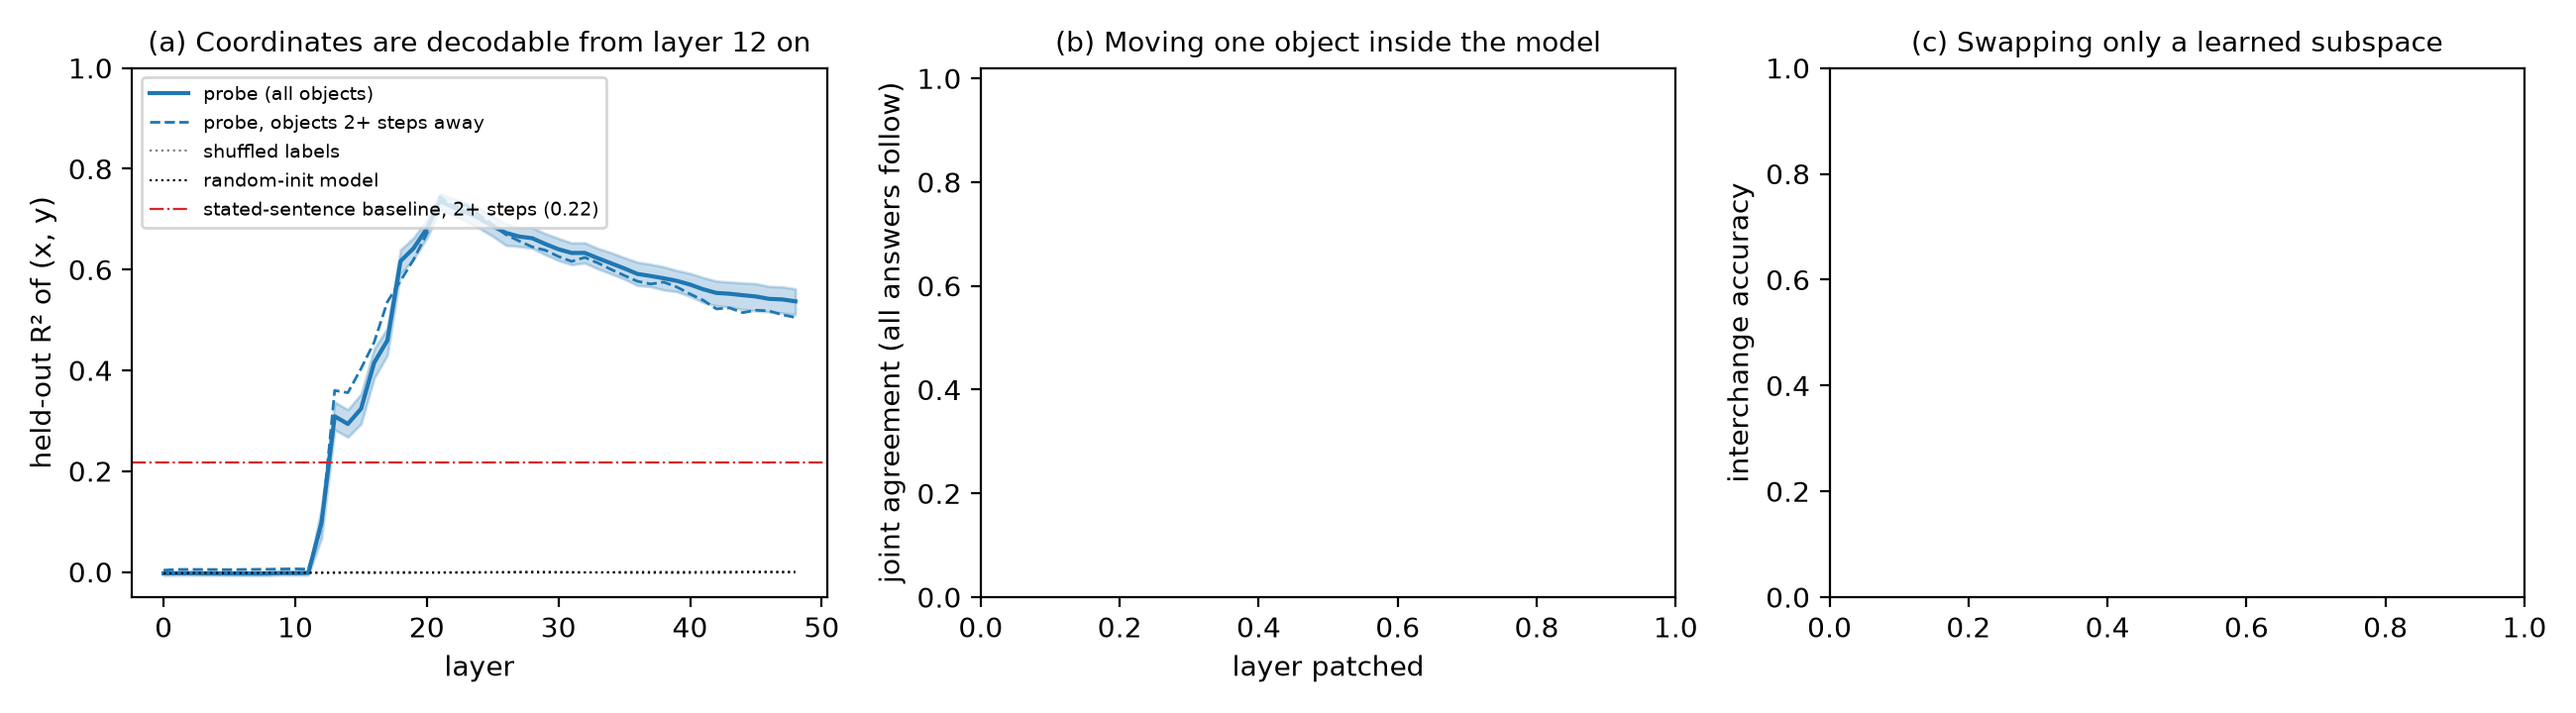
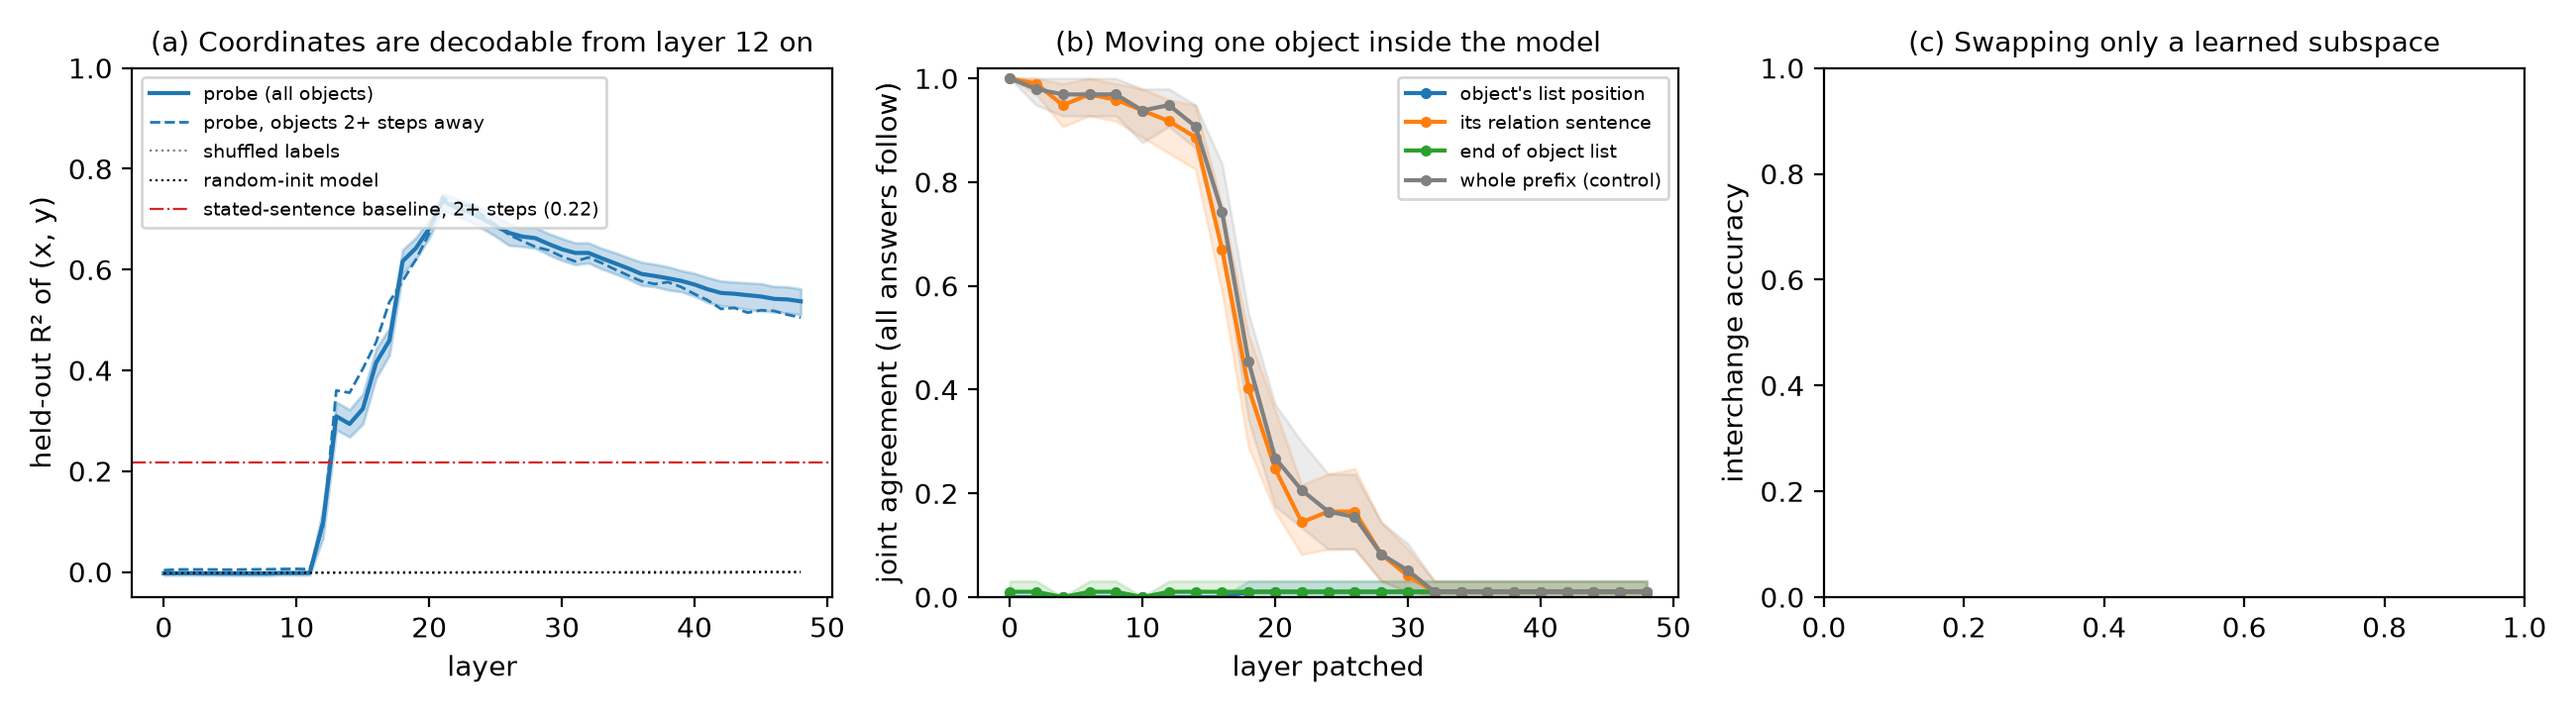
results: P3 sweep (list/eol patching has no effect; relation sentence carries the answers through layer 14); p4_das exploratory naming

diff --git a/scripts/p4_das.py b/scripts/p4_das.py
@@ -41,6 +41,9 @@ def main():
     a = ap.parse_args()
     OUT.mkdir(parents=True, exist_ok=True)
     layer = a.layer if a.layer is not None else best_layer(a.model)
+    # the preregistered run (list site, layer from the P3 sweep) keeps the default names; anything else is exploratory
+    expl = a.site != "list" or a.layer is not None
+    tag = f"_{a.site}_L{layer}" if expl else ""
     m = load(a.model)
     kw = dict(n_objects=tuple(a.n_objects), exclude_qtypes=tuple(a.exclude))
     train, test = make_pairs(m, a.n_train, seed=5, **kw), make_pairs(m, a.n_test, seed=6, **kw)
@@ -55,7 +58,7 @@ def main():
         results[f"DAS k={k}"] = eval_das(m, iv, test, layer, a.site)
         print(f"k={k} loss history {iv.history}", flush=True)
     full = pd.concat([d.assign(method=k) for k, d in results.items()])
-    full.to_csv(OUT / f"{a.model}_das.csv", index=False)
+    full.to_csv(OUT / f"{a.model}_das{tag}.csv", index=False)
 
     fig, ax = plt.subplots(figsize=(8, 3.5))
     meths = list(results)
@@ -72,7 +75,7 @@ def main():
     ax.legend(fontsize=8)
     ax.set_title(f"P4 DAS at layer {layer}, {a.site} position ({a.model})")
     fig.tight_layout()
-    fig.savefig(FIG / "p4_das.png", dpi=150)
+    fig.savefig(FIG / f"p4_das{tag}.png", dpi=150)
     plt.close(fig)
 
     lines = [f"Model **{a.model}**, layer {layer}, site {a.site}; {a.n_train} training pairs, {a.n_test} test pairs. "
@@ -91,7 +94,7 @@ def main():
         low = (f"lowest: {per.acc.min():.2f} on {per.loc[per.acc.idxmin(), 'qtype']}" if per.acc.notna().any()
                else "no question where the model's answer changes")
         lines += ["", f"Preregistered criterion (k = 2, ≥ 0.7 on every question type): **{'met' if ok else 'not met'}** ({low})."]
-    append_entry(f"P4 DAS ({a.model})", "\n".join(lines), [FIG / "p4_das.png"])
+    append_entry(f"P4 DAS ({a.model})" + (f" — exploratory: {a.site} site, layer {layer}" if expl else ""), "\n".join(lines), [FIG / f"p4_das{tag}.png"])
     print("\n".join(lines))
 
 
